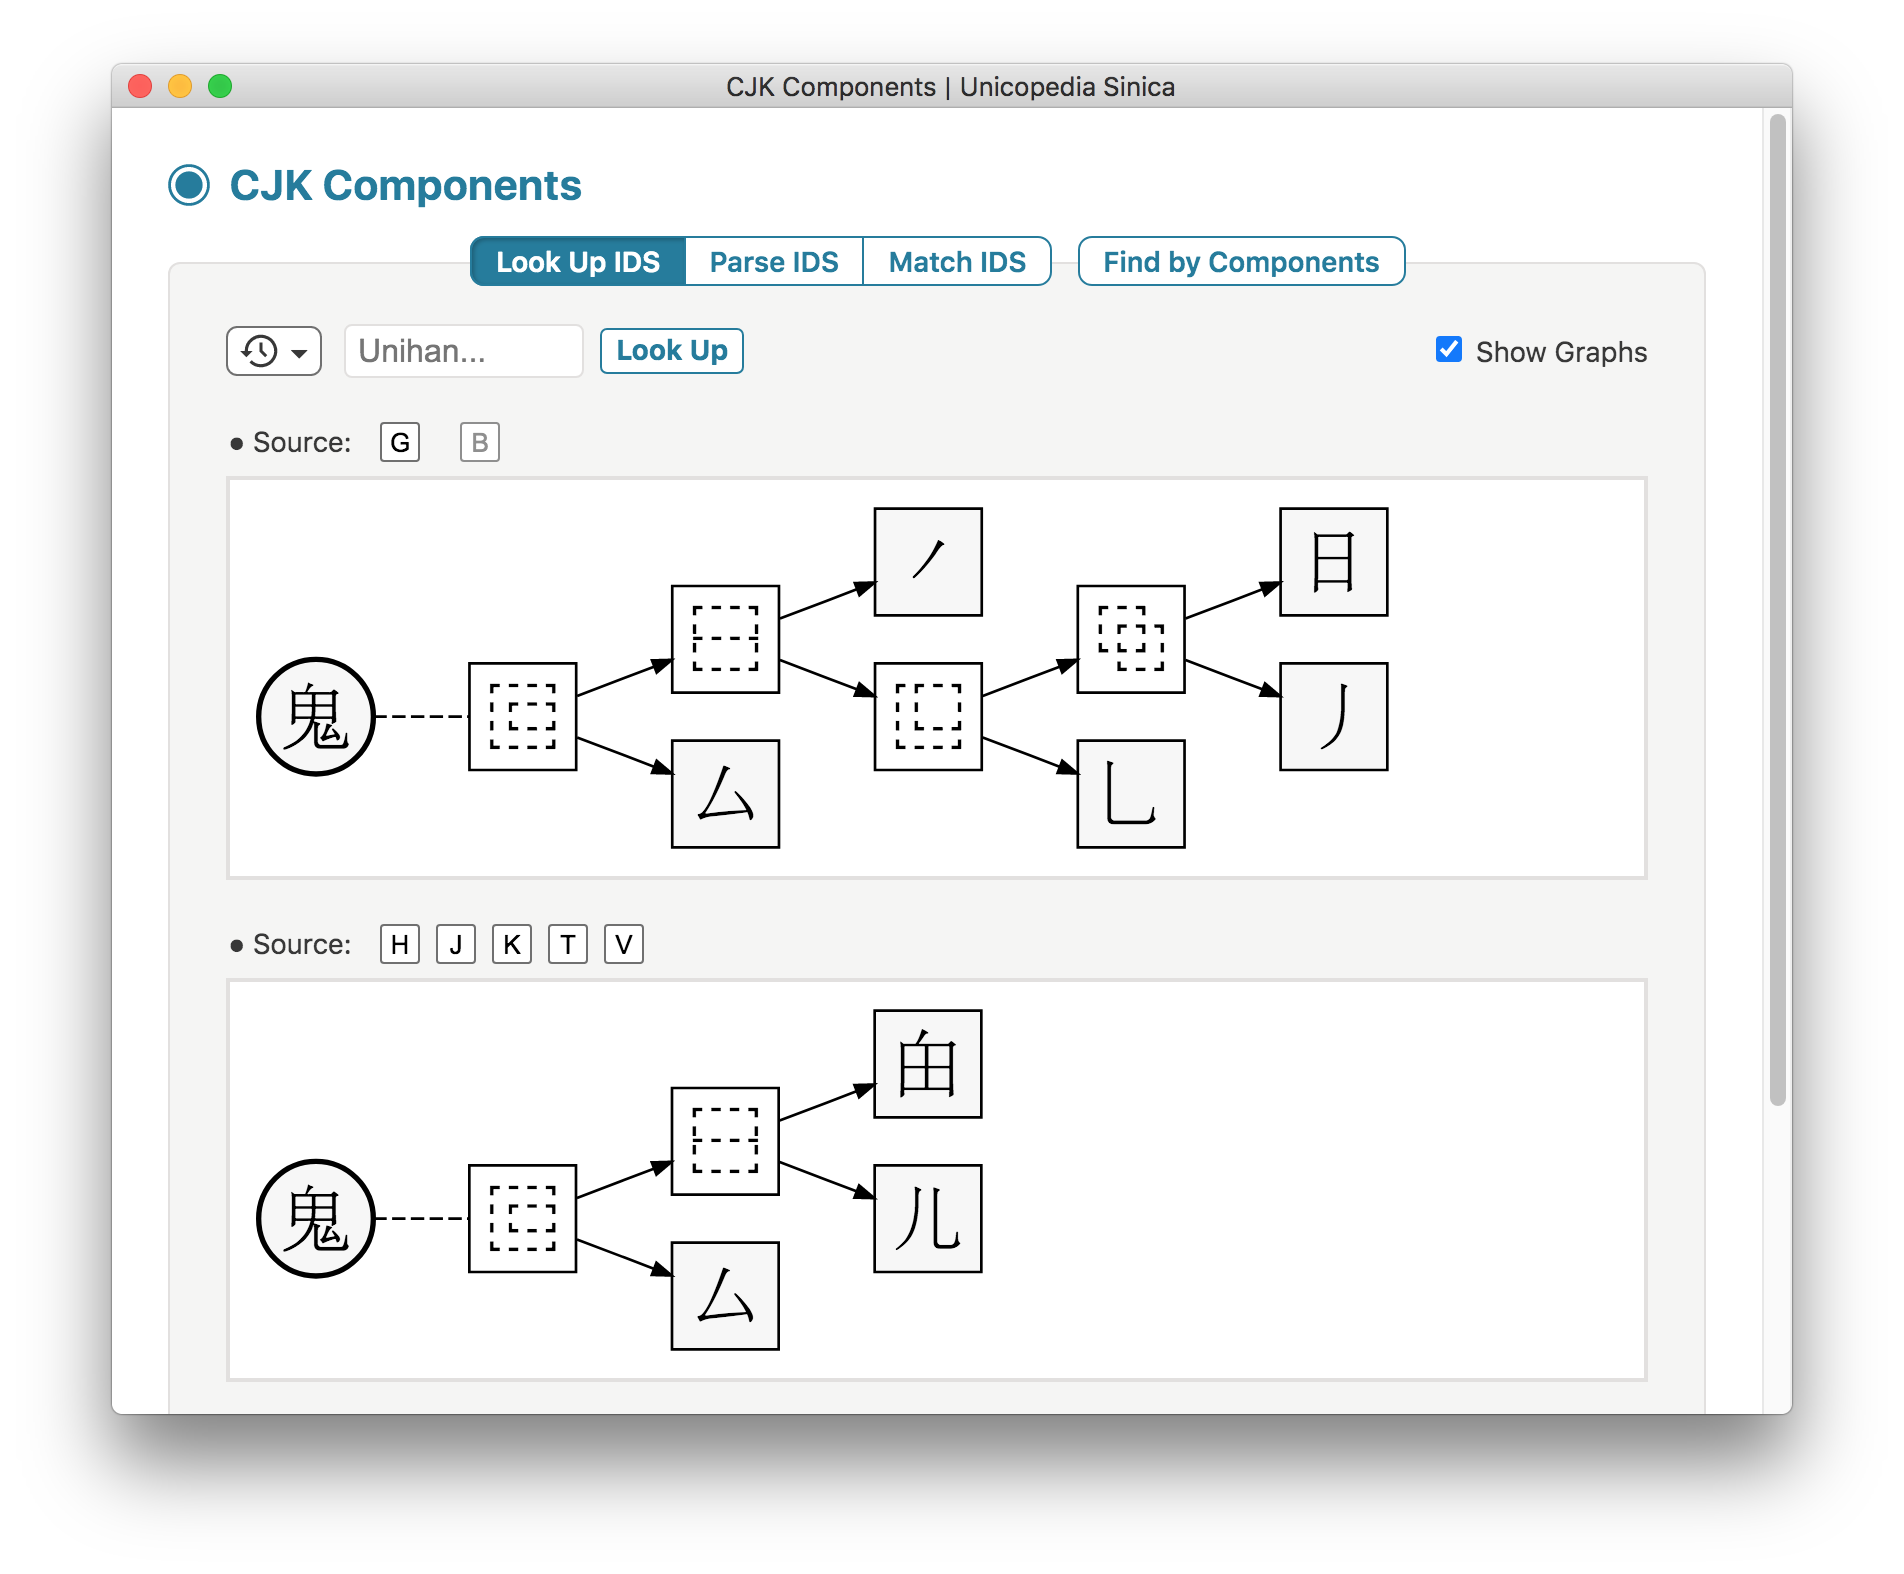
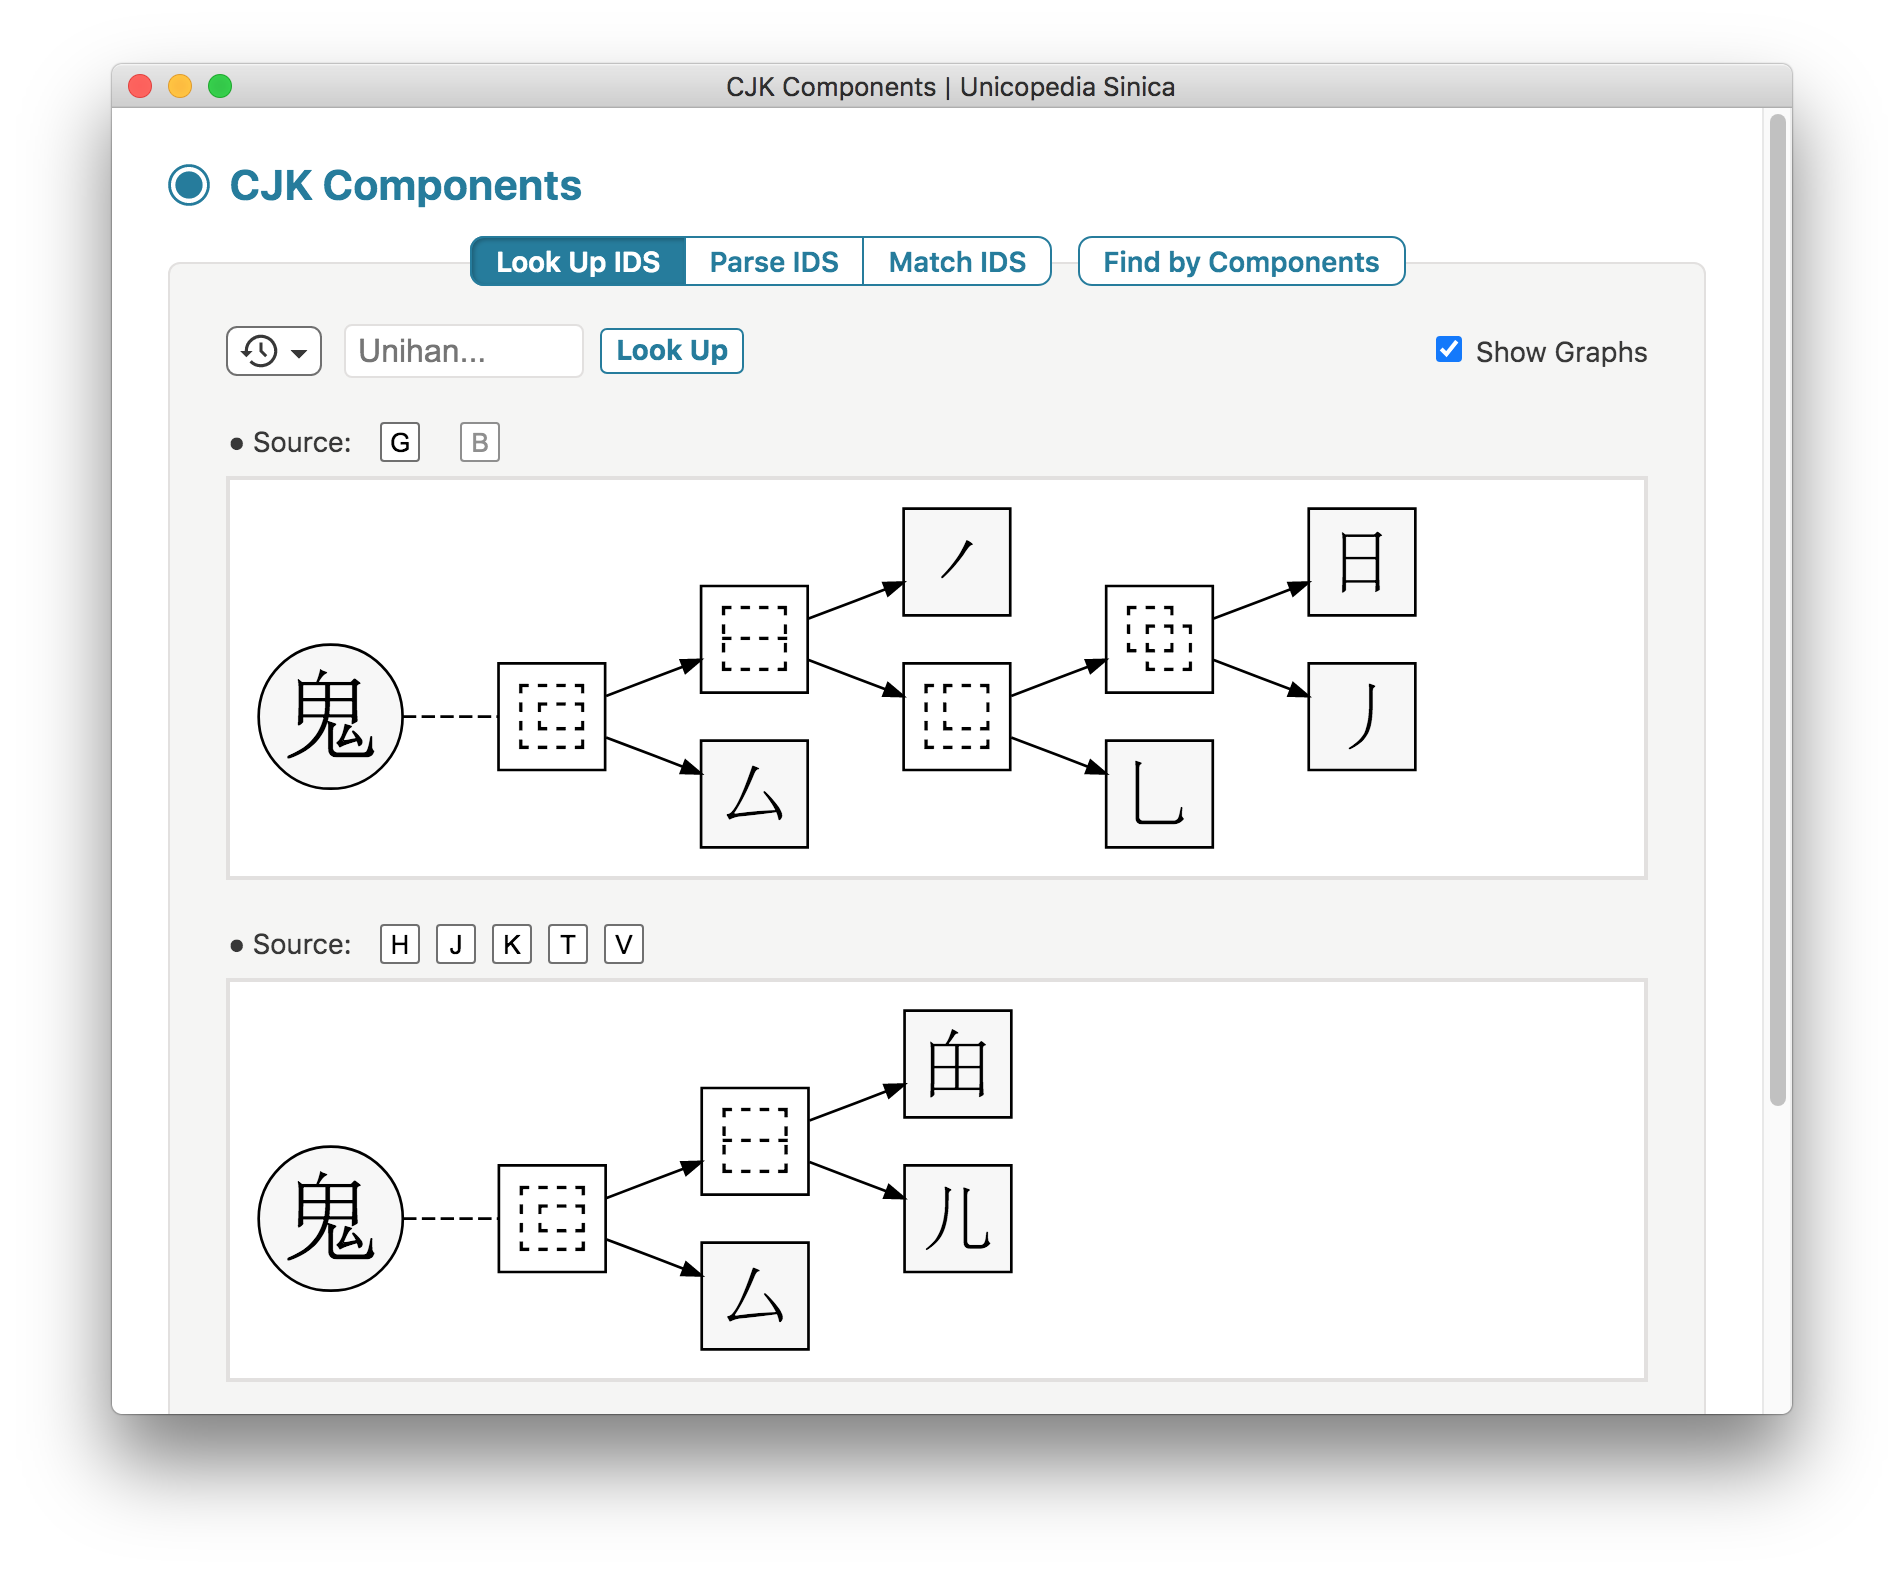
Updated app to 1.5.0

diff --git a/renderer/units/CJK Components/import.js b/renderer/units/CJK Components/import.js
@@ -536,6 +536,8 @@ module.exports.start = function (context)
     let parser = new DOMParser ();
     let serializer = new XMLSerializer ();
     //
+    const largerEntry = true;
+    //
     function treeToGraphData (entry, tree, excessCharacters, displayMode)
     {
         let defaultFontColor = '#000000';
@@ -549,7 +551,14 @@ module.exports.start = function (context)
         let nodeIndex = 0;
         if (entry)
         {
-            data += `    n${nodeIndex++} [ label = ${JSON.stringify (entry)}, shape = circle, width = 0.6, fillcolor = "#F7F7F7", style = "filled, bold", tooltip = ${JSON.stringify (getTooltip (entry))} ]\n`;
+            if (largerEntry)
+            {
+                data += `    n${nodeIndex++} [ label = ${JSON.stringify (entry)}, shape = circle, width = 0.75, fontsize = 36, fillcolor = "#F7F7F7", style = "filled", tooltip = ${JSON.stringify (getTooltip (entry))} ]\n`;
+            }
+            else
+            {
+                data += `    n${nodeIndex++} [ label = ${JSON.stringify (entry)}, shape = circle, width = 0.6, fillcolor = "#F7F7F7", style = "filled, bold", tooltip = ${JSON.stringify (getTooltip (entry))} ]\n`;
+            }
         }
         else
         {

diff --git a/main.js b/main.js
@@ -102,7 +102,7 @@ else
                 }
                 licenseWindow.loadFile (path.join (__dirname, 'license-index.html'));
                 licenseWindow.once ('ready-to-show', () => { licenseWindow.show (); });
-                licenseWindow.on ('close', () => { licenseWindow = null; });
+                licenseWindow.once ('closed', () => { licenseWindow = null; });
             }
             else
             {
@@ -195,7 +195,7 @@ else
                 const script = `document.body.querySelector ('.system-info').value = ${JSON.stringify (getSystemInfo ())};`;
                 systemInfoWindow.webContents.on ('dom-ready', () => { systemInfoWindow.webContents.executeJavaScript (script); });
                 systemInfoWindow.once ('ready-to-show', () => { systemInfoWindow.show (); });
-                systemInfoWindow.on ('close', () => { systemInfoWindow = null; });
+                systemInfoWindow.once ('closed', () => { systemInfoWindow = null; });
             }
             else
             {

diff --git a/CHANGES.md b/CHANGES.md
@@ -2,6 +2,12 @@
 
 This project adheres to [Semantic Versioning](https://semver.org/).
 
+## 1.5.0
+
+- Used larger entries for graphs in the **CJK Components** utility.
+- Updated `IDS.TXT` data file.
+- Updated `Electron` to version `16.0.0`.
+
 ## 1.4.2
 
 - Improved the Glyphs Statistics table of the **CJK Sources** utility.
